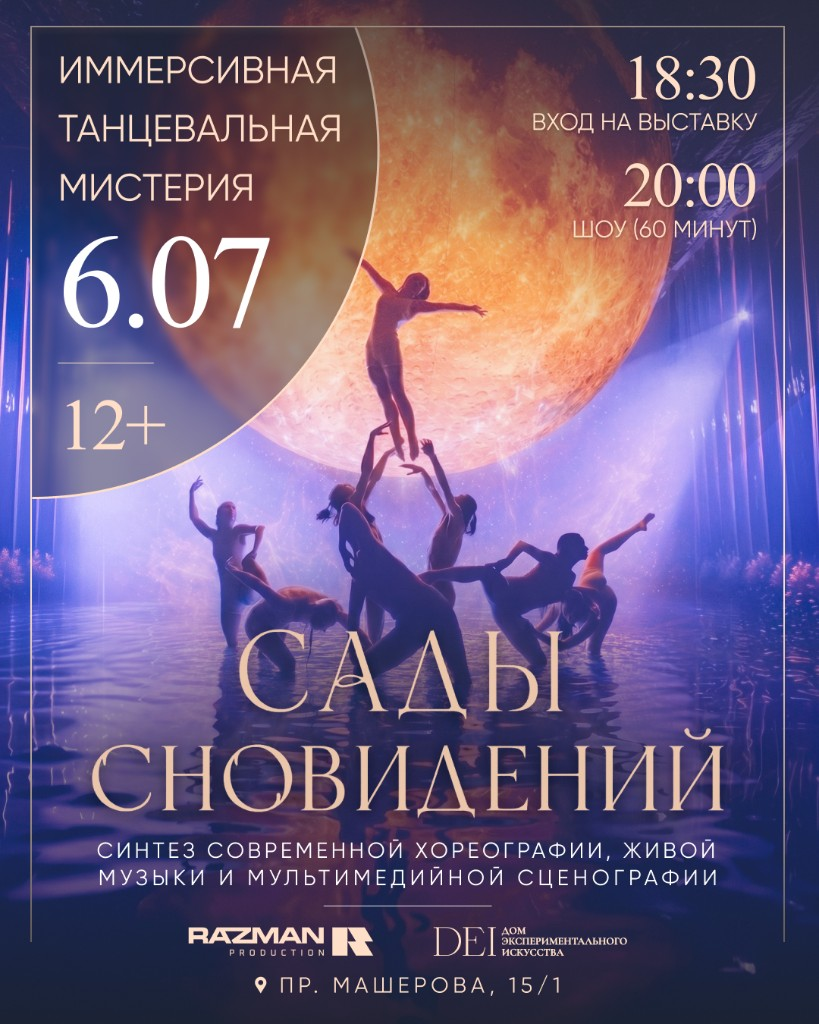
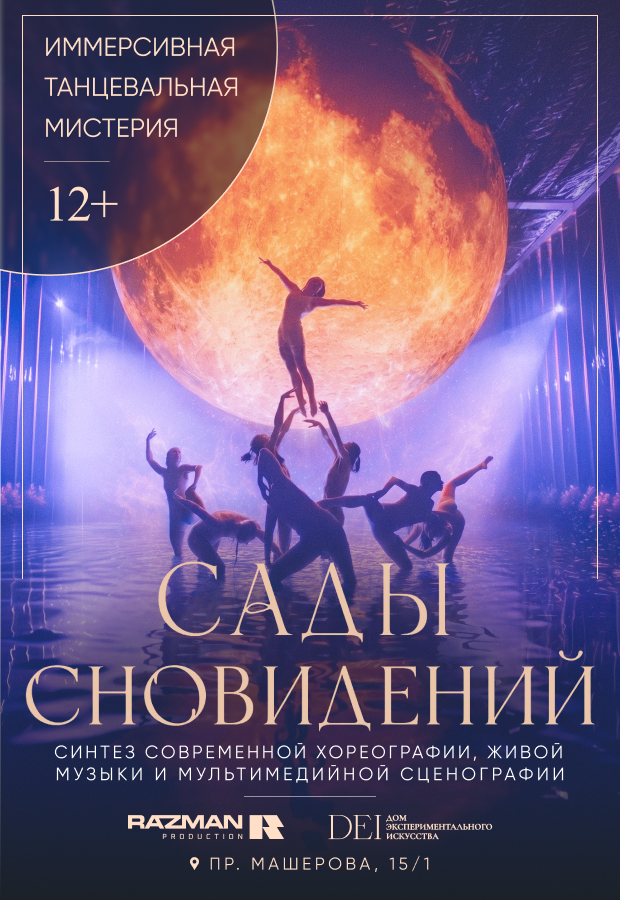
feat(bot): обновлены предстоящие события — Сады и Аксютик
Убраны «Белые ночи», новый баннер/текст Садов, заготовка концерта Аксютик.

diff --git a/bot.py b/bot.py
@@ -64,14 +64,16 @@ MAP_BASE_URL = "https://kanonirbrest.github.io/rp_bot/"
 WELCOME_PHOTO_URL = f"{MAP_BASE_URL}welcome-team.png"
 EXHIBITION_PHOTO_URL = f"{MAP_BASE_URL}exhibition-nebo-reka.png"
 EVENT_SADY_PHOTO_URL = f"{MAP_BASE_URL}event-sady-snovideniy.png"
-EVENT_BELYE_NOCHI_PHOTO_URL = f"{MAP_BASE_URL}event-belye-nochi.png"
-EVENT_SADY_TICKET_URL = "https://dei-tickets.onrender.com/sady-snovideniy"
-EVENT_BELYE_NOCHI_TICKET_URL = "https://dei-tickets.onrender.com/belye-nochi-18"
+EVENT_SADY_INFO_URL = (
+    "https://dei.by/sady_snovideniy"
+    "?utm_source=tg&utm_medium=banner&utm_campaign=sadysnovidenii"
+)
+EVENT_AKSYUTIK_PHOTO_URL = f"{MAP_BASE_URL}event-aksyutik.png"
 
 BROADCAST_EVENTS_TEXT = (
     "📅 Новый раздел в боте!\n\n"
     "Теперь доступны «Предстоящие события» — анонсы «Сады сновидений» "
-    "(6 июля) и «Белые ночи» (11 июля) с афишей и описанием уже опубликованы.\n\n"
+    "и концерта Ксении Аксютик с афишей и описанием уже опубликованы.\n\n"
     "Нажми кнопку ниже 👇"
 )
 
@@ -146,7 +148,7 @@ def format_user_promo_message(code: str, created_at: str | None = None) -> str:
 def events_hub_inline() -> InlineKeyboardMarkup:
     return InlineKeyboardMarkup([
         [InlineKeyboardButton("«Сады сновидений» 🌙", callback_data="cb_event_sady")],
-        [InlineKeyboardButton("«Белые ночи» 🤍", callback_data="cb_event_belye_nochi")],
+        [InlineKeyboardButton("Концерт Ксении Аксютик 🎤", callback_data="cb_event_aksyutik")],
     ])
 
 
@@ -625,35 +627,27 @@ async def _send_exhibition(message):
 
 
 EVENT_SADY_TEXT = (
-    "6 июля на выставке «Небо.Река» пройдёт премьера иммерсивной танцевальной "
-    "мистерии «Сады сновидений», где зрители станут частью происходящего. "
-    "Как это будет?\n\n"
-    "По задумке авторов, привычной сцены здесь не будет. Пространство объединит "
+    "Ежемесячно на выставке «Небо.Река» проходит иммерсивная танцевальная "
+    "мистерия «Сады сновидений», где зрители становятся частью происходящего. "
+    "Как это происходит?\n\n"
+    "По задумке авторов, привычной сцены здесь нет. Пространство объединяет "
     "современный танец, живую музыку и визуальные эффекты в единое действие, "
-    "внутри которого окажутся зрители. Артисты будут взаимодействовать с потоками "
-    "воды и светом, а музыка будет рождаться прямо в моменте вместе с происходящим. "
-    "Дождь, дым, лазерные эффекты и масштабные проекции на парящую планету станут "
-    "частью единого действия.\n\n"
-    "Стоимость билетов: от 91 до 151 BYN. В программу входит посещение выставки "
+    "внутри которого оказываются зрители. Артисты взаимодействуют с потоками "
+    "воды и светом, а музыка рождается прямо в моменте вместе с происходящим. "
+    "Дождь, дым, лазерные эффекты и масштабные проекции на парящую планету "
+    "становятся частью единого действия.\n\n"
+    "Стоимость билетов: от 90 до 150 BYN. В программу входит посещение выставки "
     "«Небо.Река» с 18:30 до 20:00, после чего в 20:00 начнётся танцевальная "
     "мистерия «Сады сновидений». Длительность шоу — 60 минут.\n\n"
+    "Даты ближайших шоу — 7 и 8 сентября.\n\n"
     "Только для Клуба друзей Razman Production — скидка 5% на билеты по промокоду "
     "DREAM5"
 )
 
-EVENT_BELYE_NOCHI_TEXT = (
-    "«Небо.Река» приглашает на вечеринку «Белые ночи» в стиле R&B 2000-х — ночь, "
-    "где каждый трек будет попадать прямо в сердце ♥\n\n"
-    "🎧 DJ's Kira Miller & Bazhen\n\n"
-    "За пультом — проводники в золотую эпоху MTV. Только хиты, которые знает каждый: "
-    "Beyoncé, 50 Cent, Justin Timberlake, Sean Paul, Destiny's Child, Nelly, "
-    "Timbaland, Black Eyed Peas и другие легенды нулевых\n\n"
-    "🍸 Авторские коктейли и любимая классика\n"
-    "🪐 Огромная РОЗОВАЯ ПЛАНЕТА над танцполом\n"
-    "🤍 Dress code: WHITE ONLY\n"
-    "🎫 Стоимость: 60 BYN (при покупке в кассе перед мероприятием — 70 BYN)\n"
-    "🗓 Дата: 11 июля\n\n"
-    "Если ты давно ждал вечеринку, ради которой стоит выйти из дома — это она!"
+# Описание и афиша концерта — заполняются следующим апдейтом.
+EVENT_AKSYUTIK_TEXT = (
+    "Концерт Ксении Аксютик 🎤\n\n"
+    "Анонс скоро — следи за обновлениями!"
 )
 
 
@@ -673,19 +667,25 @@ async def _send_events_hub(message):
 async def _send_event_sady(message):
     photo = await _event_photo("event_sady_photo", EVENT_SADY_PHOTO_URL)
     kb = InlineKeyboardMarkup([
-        [InlineKeyboardButton("🎟 Купить билет", url=EVENT_SADY_TICKET_URL)],
+        [InlineKeyboardButton("Подробнее", url=EVENT_SADY_INFO_URL)],
         [InlineKeyboardButton("← К событиям", callback_data="cb_events")],
     ])
     await message.reply_photo(photo=photo, caption=EVENT_SADY_TEXT, reply_markup=kb)
 
 
-async def _send_event_belye_nochi(message):
-    photo = await _event_photo("event_belye_nochi_photo", EVENT_BELYE_NOCHI_PHOTO_URL)
+async def _send_event_aksyutik(message):
     kb = InlineKeyboardMarkup([
-        [InlineKeyboardButton("🎟 Купить билет", url=EVENT_BELYE_NOCHI_TICKET_URL)],
         [InlineKeyboardButton("← К событиям", callback_data="cb_events")],
     ])
-    await message.reply_photo(photo=photo, caption=EVENT_BELYE_NOCHI_TEXT, reply_markup=kb)
+    photo = None
+    try:
+        photo = await db.get_setting("event_aksyutik_photo")
+    except Exception:
+        photo = None
+    if photo:
+        await message.reply_photo(photo=photo, caption=EVENT_AKSYUTIK_TEXT, reply_markup=kb)
+    else:
+        await message.reply_text(EVENT_AKSYUTIK_TEXT, reply_markup=kb)
 
 
 async def _send_announcements(message):
@@ -835,10 +835,10 @@ async def cb_event_sady(update: Update, context: ContextTypes.DEFAULT_TYPE):
     await _send_event_sady(query.message)
 
 
-async def cb_event_belye_nochi(update: Update, context: ContextTypes.DEFAULT_TYPE):
+async def cb_event_aksyutik(update: Update, context: ContextTypes.DEFAULT_TYPE):
     query = update.callback_query
     await _safe_answer_callback(query)
-    await _send_event_belye_nochi(query.message)
+    await _send_event_aksyutik(query.message)
 
 
 async def cb_announcements(update: Update, context: ContextTypes.DEFAULT_TYPE):
@@ -1152,7 +1152,7 @@ async def cmd_setphoto(update: Update, context: ContextTypes.DEFAULT_TYPE):
     await db.set_setting("announcement_photo", file_id)
     await update.message.reply_text(
         "✅ Фото обновлено! (legacy: announcement_photo; для событий — "
-        "/setsadyphoto и /setbelyenochiphoto)"
+        "/setsadyphoto и /setaksyutikphoto)"
     )
 
 
@@ -1167,17 +1167,17 @@ async def cmd_setsadyphoto(update: Update, context: ContextTypes.DEFAULT_TYPE):
     await update.message.reply_text("✅ Фото «Сады сновидений» обновлено!")
 
 
-async def cmd_setbelyenochiphoto(update: Update, context: ContextTypes.DEFAULT_TYPE):
+async def cmd_setaksyutikphoto(update: Update, context: ContextTypes.DEFAULT_TYPE):
     if not is_admin(update.effective_user.id):
         return
     if not update.message.photo:
         await update.message.reply_text(
-            "Отправь фото с командой /setbelyenochiphoto в подписи."
+            "Отправь фото с командой /setaksyutikphoto в подписи."
         )
         return
     file_id = update.message.photo[-1].file_id
-    await db.set_setting("event_belye_nochi_photo", file_id)
-    await update.message.reply_text("✅ Фото «Белые ночи» обновлено!")
+    await db.set_setting("event_aksyutik_photo", file_id)
+    await update.message.reply_text("✅ Фото «Концерт Ксении Аксютик» обновлено!")
 
 
 async def cmd_setgif(update: Update, context: ContextTypes.DEFAULT_TYPE):
@@ -1667,7 +1667,7 @@ def main():
     app.add_handler(CommandHandler("qrzone", cmd_qrzone))
     app.add_handler(CommandHandler("setphoto", cmd_setphoto))
     app.add_handler(CommandHandler("setsadyphoto", cmd_setsadyphoto))
-    app.add_handler(CommandHandler("setbelyenochiphoto", cmd_setbelyenochiphoto))
+    app.add_handler(CommandHandler("setaksyutikphoto", cmd_setaksyutikphoto))
     app.add_handler(CommandHandler("setgif", cmd_setgif))
     app.add_handler(CommandHandler("setmainphoto", cmd_setmainphoto))
     app.add_handler(CommandHandler("setexhibitionphoto", cmd_setexhibitionphoto))
@@ -1686,8 +1686,8 @@ def main():
     app.add_handler(MessageHandler(filters.PHOTO & filters.CaptionRegex(r"(?i)/setphoto"), cmd_setphoto))
     app.add_handler(MessageHandler(filters.PHOTO & filters.CaptionRegex(r"(?i)/setsadyphoto"), cmd_setsadyphoto))
     app.add_handler(MessageHandler(
-        filters.PHOTO & filters.CaptionRegex(r"(?i)/setbelyenochiphoto"),
-        cmd_setbelyenochiphoto,
+        filters.PHOTO & filters.CaptionRegex(r"(?i)/setaksyutikphoto"),
+        cmd_setaksyutikphoto,
     ))
     app.add_handler(MessageHandler(filters.PHOTO & filters.CaptionRegex(r"(?i)/setmainphoto"), cmd_setmainphoto))
     app.add_handler(MessageHandler(filters.PHOTO & filters.CaptionRegex(r"(?i)/setexhibitionphoto"), cmd_setexhibitionphoto))
@@ -1705,7 +1705,7 @@ def main():
     app.add_handler(CallbackQueryHandler(cb_offers_promo, pattern="^cb_offers_promo$"))
     app.add_handler(CallbackQueryHandler(cb_events, pattern="^cb_events$"))
     app.add_handler(CallbackQueryHandler(cb_event_sady, pattern="^cb_event_sady$"))
-    app.add_handler(CallbackQueryHandler(cb_event_belye_nochi, pattern="^cb_event_belye_nochi$"))
+    app.add_handler(CallbackQueryHandler(cb_event_aksyutik, pattern="^cb_event_aksyutik$"))
     app.add_handler(CallbackQueryHandler(cb_announcements, pattern="^cb_announcements$"))
     app.add_handler(CallbackQueryHandler(cb_certificates, pattern="^cb_certificates$"))
     app.add_handler(CallbackQueryHandler(cb_gen_gift_promo, pattern="^cb_gen_gift_promo$"))
